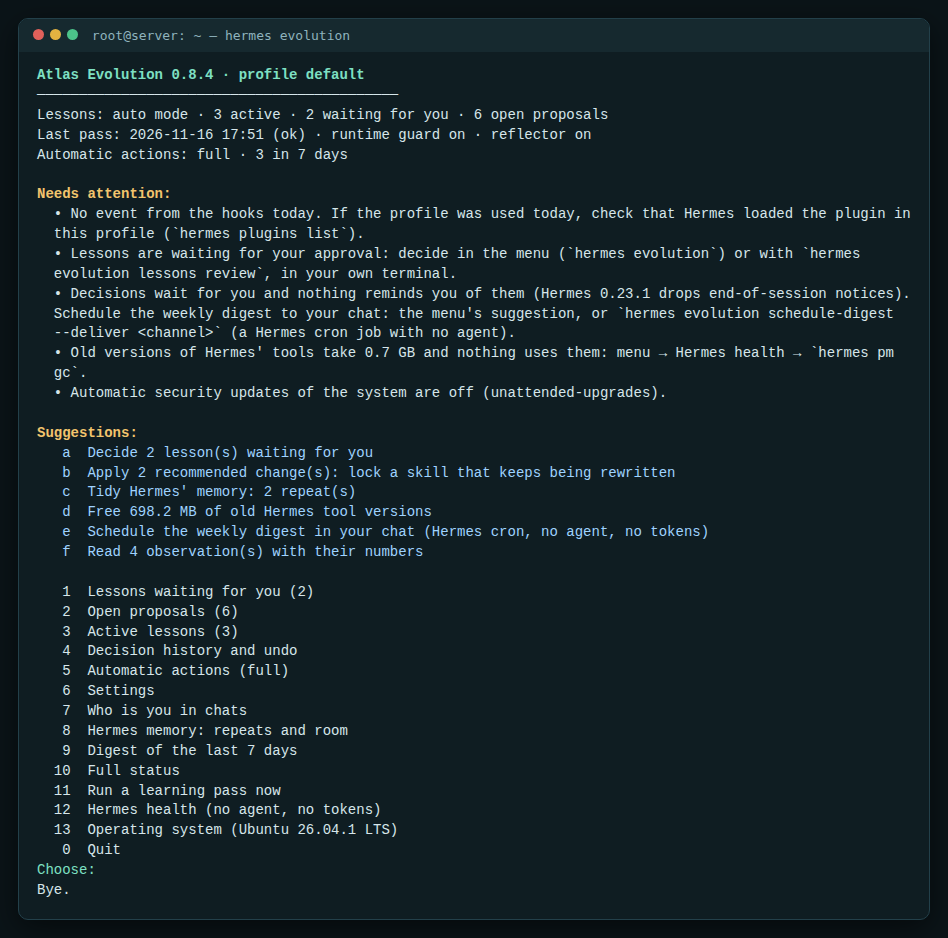
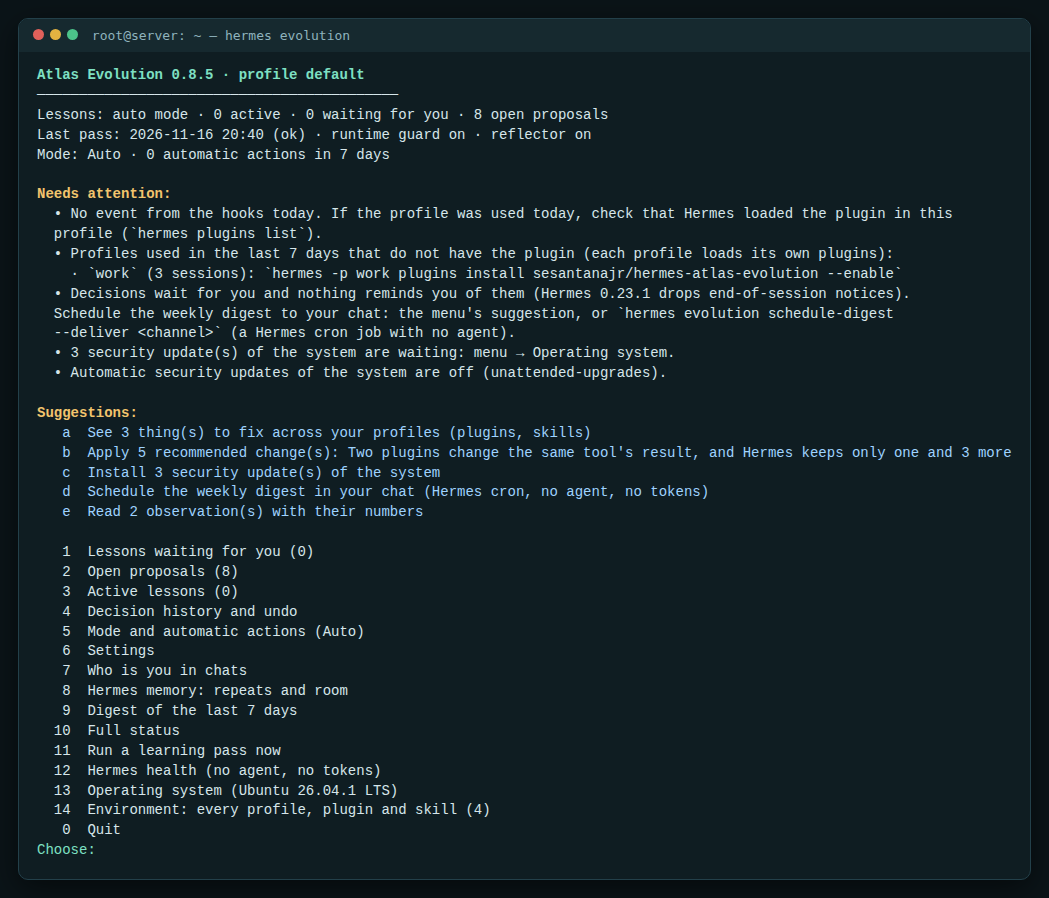
0.8.5: docs, screenshots of the environment, bundled skills left out, clearer suggestions

Changed region(s): [[0.0, 0.0312, 0.9483, 0.9666], [0.9789, 0.0312, 1.0, 0.9666], [0.8565, 0.3742, 0.9483, 0.4053]]

diff --git a/dashboard/dist/index.js b/dashboard/dist/index.js
@@ -67,7 +67,7 @@
       applyAll: "Apply the {n} change(s)", applyAllHint: "Reversible changes to Hermes, each one recorded with its undo.",
       applyNow: "Apply now", dismiss: "Dismiss", seen: "What was seen", undoHow: "To undo",
       category: { change: "the plugin applies it", lesson: "lesson", manual: "you apply it", advice: "observation" },
-      autoLine: "Automatic actions", autoNames: { off: "off", safe: "safe", full: "full" },
+      autoLine: "Mode", autoNames: { auto: "Auto", assist: "Assisted", manual: "Manual" },
       copy: "Copy", copied: "Copied",
       share: "Share what this profile learned with another profile:",
       s: {
@@ -148,7 +148,7 @@
       applyAll: "Aplicar as {n} mudança(s)", applyAllHint: "Mudanças reversíveis no Hermes, cada uma registrada com o desfazer.",
       applyNow: "Aplicar agora", dismiss: "Dispensar", seen: "O que foi visto", undoHow: "Para desfazer",
       category: { change: "o plugin aplica", lesson: "lição", manual: "você aplica", advice: "observação" },
-      autoLine: "Ações automáticas", autoNames: { off: "desligadas", safe: "seguras", full: "completas" },
+      autoLine: "Modo", autoNames: { auto: "Auto", assist: "Assistido", manual: "Manual" },
       copy: "Copiar", copied: "Copiado",
       share: "Leve o que este perfil aprendeu para outro perfil:",
       s: {
@@ -780,7 +780,7 @@
         data ? h("div", { className: "hae-subtitle" }, t.profile + " ", h("code", { className: "hae-code" }, data.profile), " · v" + data.version) : null),
       h("div", { className: "hae-actions" },
         data ? h(Pill, { tone: data.mode === "off" ? "muted" : "good" }, t.mode[data.mode] || data.mode) : null,
-        data && data.automatic ? h(Pill, { tone: data.automatic.mode === "off" ? "muted" : "good" },
+        data && data.automatic ? h(Pill, { tone: data.automatic.mode === "manual" ? "muted" : "good" },
           t.autoLine + ": " + (t.autoNames[data.automatic.mode] || data.automatic.mode)) : null,
         data ? h(Pill, { tone: (data.status.runtime_guard || {}).enabled ? "good" : "bad" },
                  (data.status.runtime_guard || {}).enabled ? t.guardOn : t.guardOff) : null,

diff --git a/hermes_atlas_evolution/menu.py b/hermes_atlas_evolution/menu.py
@@ -40,6 +40,7 @@ TEXT = {
         "suggest_os_repair": "Finish the system update that stopped half-way",
         "suggest_env": "See {n} thing(s) to fix across your profiles (plugins, skills)",
         "advice": "What to do",
+        "and_more": " and {n} more",
         "env_title": "Environment: every profile of this Hermes",
         "env_mode": "Mode: {mode} · looked after by profile `{lead}` · last look: {when}",
         "env_lead_elsewhere": "Profile `{lead}` looks after every profile; this screen shows and decides through it.",
@@ -48,11 +49,12 @@ TEXT = {
         "env_catalog": "Hermes plugin catalog: {plugins} plugins ({tiers}) · {removed} removed for safety",
         "env_tiers": {"official": "official", "verified": "verified", "community": "community"},
         "env_profiles": "Profiles ({n}):",
-        "env_row": "{profile:<18} {sessions:>4} sessions in 7 days · plugins {on} on, {idle} never loaded · {skills} skills · Atlas Evolution {self}",
+        "env_row": "{profile:<18} {sessions:>4} sessions in 7 days · plugins: {on} on, {idle} never loaded · {skills} skills · Atlas Evolution: {self}",
         "env_todo": "What to do ({n}), most important first:",
         "env_clean": "Nothing to fix: no plugin conflict, duplicate, removed plugin or leftover found.",
         "env_prompt": "Number to see and decide · v look again now · Enter back: ",
         "env_scanning": "Looking at every profile...",
+        "env_auto_mark": "⚙ = the Mode auto does it by itself in the next pass (and you can undo it in the history).",
         "suggest_os_security": "Install {n} security update(s) of the system",
         "suggest_unused": "Free {size} of old Hermes tool versions",
         "deliver_prompt": "Deliver it where? local, or a channel such as telegram (Enter = local): ",
@@ -212,19 +214,21 @@ TEXT = {
         "suggest_os_repair": "Terminar a atualização do sistema que parou no meio",
         "suggest_env": "Ver {n} coisa(s) para arrumar nos seus perfis (plugins, skills)",
         "advice": "O que fazer",
+        "and_more": " e mais {n}",
         "env_title": "Ambiente: todos os perfis deste Hermes",
         "env_mode": "Modo: {mode} · cuidado pelo perfil `{lead}` · última olhada: {when}",
         "env_lead_elsewhere": "O perfil `{lead}` cuida de todos os perfis; esta tela mostra e decide por meio dele.",
         "env_none": "Nenhum perfil tem o Atlas Evolution ligado, então ninguém cuida do Hermes inteiro ainda.",
         "env_not_yet": "Ainda não olhado: tecle v para olhar agora (uns 15 segundos num Hermes grande).",
-        "env_catalog": "Catálogo de plugins do Hermes: {plugins} plugins ({tiers}) · {removed} removidos por segurança",
+        "env_catalog": "Catálogo de plugins do Hermes: {plugins} plugins ({tiers}) · {removed} removido(s) por segurança",
         "env_tiers": {"official": "oficiais", "verified": "verificados", "community": "da comunidade"},
         "env_profiles": "Perfis ({n}):",
-        "env_row": "{profile:<18} {sessions:>4} sessões em 7 dias · plugins {on} ligados, {idle} nunca carregados · {skills} skills · Atlas Evolution {self}",
+        "env_row": "{profile:<18} {sessions:>4} sessões em 7 dias · plugins: {on} ligado(s), {idle} nunca carregado(s) · {skills} skills · Atlas Evolution: {self}",
         "env_todo": "O que fazer ({n}), do mais importante para o menos:",
         "env_clean": "Nada para arrumar: nenhum conflito, duplicidade, plugin removido ou resto de instalação.",
         "env_prompt": "Número para ver e decidir · v olhar de novo agora · Enter volta: ",
         "env_scanning": "Olhando todos os perfis...",
+        "env_auto_mark": "⚙ = o Modo Auto faz sozinho na próxima passada (e você pode desfazer no histórico).",
         "suggest_os_security": "Instalar {n} atualização(ões) de segurança do sistema",
         "suggest_unused": "Liberar {size} de versões antigas das ferramentas do Hermes",
         "deliver_prompt": "Entregar onde? local, ou um canal como telegram (Enter = local): ",
@@ -579,7 +583,8 @@ class Menu:
             found.append((self.t["suggest_waiting"].format(n=waiting), self.waiting))
         changes = [item for item in items if item["explain"]["can_apply"]]
         if changes:
-            what = ", ".join(dict.fromkeys(item["explain"]["title"].lower() for item in changes))
+            titles = list(dict.fromkeys(item["explain"]["title"] for item in changes))
+            what = titles[0] + (self.t["and_more"].format(n=len(titles) - 1) if len(titles) > 1 else "")
             found.append((self.t["suggest_apply"].format(n=len(changes), what=what), lambda: self.apply_all(changes)))
         if (state.get("auto_actions") or {}).get("mode") != "auto":
             found.append((self.t["suggest_full"], lambda: self.set_auto("auto")))
@@ -888,6 +893,8 @@ class Menu:
                     told = item["explain"]
                     auto = " ⚙" if told.get("automatic") and values.get("mode") == "auto" else ""
                     self.io.say(f"  {number:>2}  [{told['risk']}] {told['title']} · {item['subject']}{auto}")
+                if values.get("mode") == "auto" and any(item["explain"].get("automatic") for item in items):
+                    self.io.say(self.t["env_auto_mark"])
             answer = self.io.ask(self.t["env_prompt"]).lower()
             if not answer:
                 return

diff --git a/hermes_atlas_evolution/environment.py b/hermes_atlas_evolution/environment.py
@@ -389,8 +389,19 @@ def _iso(value) -> float | None:
         return None
 
 
+def _bundled(base: Path) -> set[str]:
+    """The skills Hermes ships and keeps in every profile (`skills/.bundled_manifest`, `name:hash` lines): Hermes'
+    own, re-synced on update, so never the owner's to archive, merge or share."""
+    try:
+        text = (base / ".bundled_manifest").read_text(encoding="utf-8", errors="replace")[:1_000_000]
+    except OSError:
+        return set()
+    return {line.split(":", 1)[0].strip() for line in text.splitlines() if line.strip()}
+
+
 def _skills_of(home: Path) -> list[dict]:
     base = Path(home) / "skills"
+    bundled = _bundled(base)
     try:
         usage = json.loads((base / ".usage.json").read_text(encoding="utf-8"))
         usage = usage if isinstance(usage, dict) else {}
@@ -423,6 +434,7 @@ def _skills_of(home: Path) -> list[dict]:
                       "last_used": _iso(record.get("last_used_at")), "created": _iso(record.get("created_at")),
                       "uses": record.get("use_count") if type(record.get("use_count")) is int else 0,
                       "pinned": record.get("pinned") is True, "locked": record.get("locked") is True,
+                      "bundled": folder in bundled or (name or folder) in bundled,
                       "state": record.get("state") if isinstance(record.get("state"), str) else "active"})
     return found
 
@@ -466,8 +478,8 @@ def _similar(left: dict, right: dict) -> float:
     return len(a & b) / len(a | b) if a and b else 0.0
 
 
-def _finding(kind: str, profile: str, subject: str, *, risk: str, evidence: dict, command: str = "") -> dict:
-    return {"code": f"env:{kind}:{profile}:{subject}"[:240], "kind": kind, "risk": risk,
+def _finding(kind: str, profile: str, subject: str, *, risk: str, evidence: dict, command: str = "", key: str = "") -> dict:
+    return {"code": (f"env:{kind}:{profile}:{subject}" + (f":{key}" if key else ""))[:240], "kind": kind, "risk": risk,
             "subject": f"{profile}/{subject}" if subject else profile, "evidence": {"profile": profile, **evidence},
             "command": command}
 
@@ -521,7 +533,8 @@ def findings(reading: dict, catalog: dict, known: dict, *, now: float | None = N
                         continue   # different tools: both changes apply
                     protected = _protected(later, notes) and not _protected(first, notes)
                     off = first if protected else later
-                    found.append(_finding("plugin_transform_overlap", profile, off["folder"],
+                    other = later if off is first else first
+                    found.append(_finding("plugin_transform_overlap", profile, off["folder"], key=f"{hook}:{other['folder']}",
                                           risk="high" if _protected(later, notes) else "medium",
                                           evidence={"hook": hook, "first": first["folder"], "later": later["folder"],
                                                     "tools": shared, "first_tools": a, "later_tools": b,
@@ -580,7 +593,7 @@ def findings(reading: dict, catalog: dict, known: dict, *, now: float | None = N
                                   evidence={"days": IDLE_PROFILE_DAYS, "plugins": len(on), "skills": len(row["skills"])},
                                   command=_cmd(profile, "evolution status")))
         # Skills: unused, the same text twice, near twins, and copies kept in every profile.
-        skills = [item for item in row["skills"] if item["state"] == "active"]
+        skills = [item for item in row["skills"] if item["state"] == "active" and not item.get("bundled")]
         unused = [item for item in skills if not (item["pinned"] or item["locked"])
                   and now - (item["last_used"] or item["created"] or now) > UNUSED_SKILL_DAYS * 86_400]
         if unused:

diff --git a/hermes_atlas_evolution/status.py b/hermes_atlas_evolution/status.py
@@ -779,7 +779,7 @@ _ENV_TEXT = {
     "pt": {"none": "Nenhum perfil tem o Atlas Evolution ligado, então ninguém cuida do Hermes inteiro ainda.",
            "not_yet": "Ainda não olhado. A primeira olhada acontece na próxima passada do perfil `{lead}` (ou menu → Ambiente → v).",
            "head": "Cuidado pelo perfil `{lead}` · última olhada {when} · modo {mode}.",
-           "catalog": "Catálogo de plugins do Hermes: {plugins} plugins ({tiers}), {removed} removidos por segurança.",
+           "catalog": "Catálogo de plugins do Hermes: {plugins} plugins ({tiers}), {removed} removido(s) por segurança.",
            "cols": "| Perfil | Sessões 7 d | Plugins ligados | Nunca carregados | Skills | Atlas Evolution |",
            "todo": "O que fazer ({n})", "clean": "Nada para arrumar: nenhum conflito, duplicidade, plugin removido ou resto de instalação.",
            "seen": "Visto", "advice": "O que fazer", "run": "Comando", "where": "Decida no perfil `{lead}`: a aba Propostas dele, ou `hermes{p} evolution` → 14.",
@@ -802,10 +802,12 @@ def environment_markdown(home: Path, lang: str = "en", *, mode: str = "auto") ->
     if not found:
         return t["not_yet"].format(lead=name) + "\n"
     stamp = datetime.fromtimestamp(float(found.get("at") or 0)).strftime("%d/%m %H:%M" if lang == "pt" else "%Y-%m-%d %H:%M")
-    lines = [t["head"].format(lead=name, when=stamp, mode=mode), ""]
+    shown = {"auto": "Auto", "assist": "Assistido" if lang == "pt" else "Assisted", "manual": "Manual"}.get(mode, mode)
+    lines = [t["head"].format(lead=name, when=stamp, mode=shown), ""]
     catalog = found.get("catalog") or {}
     if catalog.get("plugins"):
-        tiers = ", ".join(f"{count} {tier}" for tier, count in sorted((catalog.get("tiers") or {}).items()))
+        names = {"official": "oficiais", "verified": "verificados", "community": "da comunidade"} if lang == "pt" else {}
+        tiers = ", ".join(f"{count} {names.get(tier, tier)}" for tier, count in sorted((catalog.get("tiers") or {}).items()))
         lines += [t["catalog"].format(plugins=catalog["plugins"], tiers=tiers, removed=catalog.get("removed", 0)), ""]
     lines += [t["cols"], "|---|---:|---:|---:|---:|---|"]
     for row in found.get("profiles") or ():

diff --git a/tests/test_actions_083.py b/tests/test_actions_083.py
@@ -216,7 +216,7 @@ class MenuActionsTest(Base):
                 "hermes evolution report --days 7", "low")
         shown = self.menu("a", "s", "0", lang="pt")
         self.assertIn("Sugestões:", shown)
-        self.assertIn("Aplicar 1 mudança(s) recomendada(s): travar skill reescrita em excesso", shown)
+        self.assertIn("Aplicar 1 mudança(s) recomendada(s): Travar skill reescrita em excesso", shown)
         self.assertIn("1 aplicada(s).", shown)
         self.assertEqual(self.hermes.calls[0][-3:], ["curator", "lock", "hermes-admin"])
 
